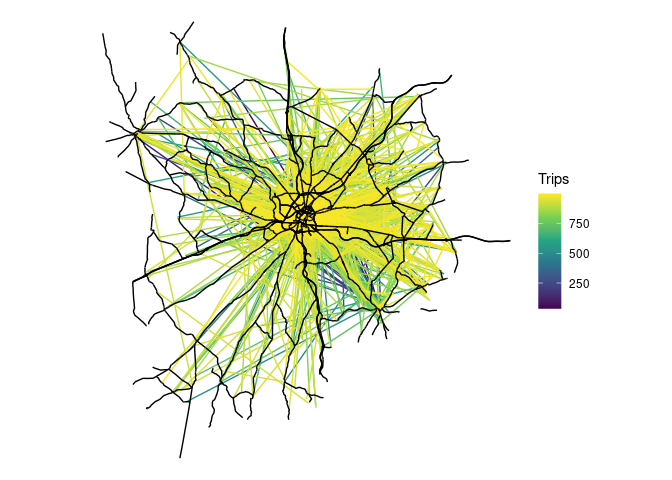
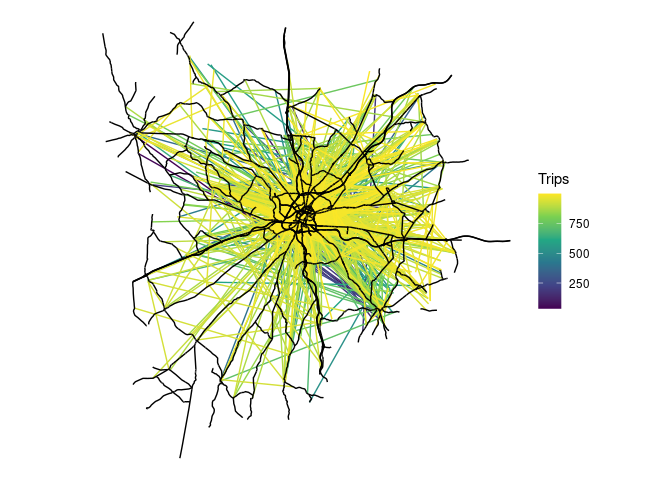
Re-render readme

Changed region(s): [[0.1875, 0.0938, 0.6875, 0.8438], [0.625, 0.1562, 0.6562, 0.1875]]

diff --git a/README.md b/README.md
@@ -1,0 +1,383 @@
+
+
+<!-- badges: start -->
+
+[![R-CMD-check](https://github.com/Robinlovelace/spanish_od_data/actions/workflows/R-CMD-check.yaml/badge.svg)](https://github.com/Robinlovelace/spanish_od_data/actions/workflows/R-CMD-check.yaml)
+<!-- badges: end -->
+
+This repo demonstrates how to download and use OD data from Spain,
+published by
+[transportes.gob.es](https://www.transportes.gob.es/ministerio/proyectos-singulares/estudios-de-movilidad-con-big-data/opendata-movilidad)
+
+The data is provided as follows:
+
+- Estudios basicos
+  - Por disitritos
+    - Personas (population)
+    - Pernoctaciones (overnight stays)
+    - Viajes
+      - ficheros-diarios
+      - meses-completos
+
+The package is designed to save people time by providing the data in
+analyis-ready formats. Automating the process of downloading, cleaning
+and importing the data can also reduce the risk of errors in the
+laborious process of data preparation.
+
+The datasets are large, so the package aims to reduce computational
+resources, by using computationally efficient packages behind the
+scenes. If you want to use many of the data files, it’s recommended you
+set a data directory where the package will look for the data, only
+downloading the files that are not already present.
+
+# Installation
+
+Install the package as follows:
+
+``` r
+if (!require("remotes")) install.packages("remotes")
+remotes::install_github("Robinlovelace/spanishoddata")
+```
+
+Load it as follows:
+
+``` r
+library(spanishoddata)
+```
+
+# Setting the data directory
+
+You can specify the data directory globally by setting the
+`SPANISH_OD_DATA_DIR` environment variable, e.g. with the following
+command:
+
+``` r
+usethis::edit_r_environ()
+# Then set the data directory globally, by typing this line in the file:
+```
+
+    SPANISH_OD_DATA_DIR = "/path/to/data"
+
+You can also set the data directory in the local folder by editing a
+local `.Renviron` file in the root of the project:
+
+``` r
+file.edit(".Renviron")
+```
+
+Finally, you can set the data directory in the current R session as
+follows:
+
+``` r
+Sys.setenv(SPANISH_OD_DATA_DIR = "/path/to/data")
+```
+
+# Using the package
+
+To run the code in this README we will use the following setup:
+
+``` r
+library(duckdb)
+library(tidyverse)
+theme_set(theme_minimal())
+sf::sf_use_s2(FALSE)
+```
+
+Get metadata for the datasets as follows:
+
+``` r
+metadata = get_metadata()
+metadata
+```
+
+    # A tibble: 9,442 × 6
+       target_url           pub_ts              file_extension data_ym data_ymd  
+       <chr>                <dttm>              <chr>          <date>  <date>    
+     1 https://movilidad-o… 2024-07-16 11:22:03 gz             NA      2022-10-23
+     2 https://movilidad-o… 2024-07-16 11:18:41 gz             NA      2022-10-22
+     3 https://movilidad-o… 2024-07-16 11:15:06 gz             NA      2022-10-20
+     4 https://movilidad-o… 2024-07-16 11:11:35 gz             NA      2022-10-18
+     5 https://movilidad-o… 2024-07-16 11:07:58 gz             NA      2022-10-17
+     6 https://movilidad-o… 2024-07-16 11:04:18 gz             NA      2022-10-12
+     7 https://movilidad-o… 2024-07-16 11:00:20 gz             NA      2022-10-07
+     8 https://movilidad-o… 2024-07-16 10:56:03 gz             NA      2022-08-07
+     9 https://movilidad-o… 2024-07-16 10:51:05 gz             NA      2022-08-06
+    10 https://movilidad-o… 2024-07-16 10:46:24 gz             NA      2022-08-05
+    # ℹ 9,432 more rows
+    # ℹ 1 more variable: local_path <chr>
+
+## Zones
+
+Zones can be downloaded as follows:
+
+``` r
+distritos = get_zones(type = "distritos")
+distritos_wgs84 = sf::st_transform(distritos, 4326)
+plot(distritos_wgs84)
+```
+
+![](man/figures/README-distritos-1.png)
+
+## Estudios basicos
+
+Each day in the `ficheros-diarios` folder contains a file with the
+following columns:
+
+``` r
+# set timeout for downloads
+options(timeout = 600) # 10 minutes
+u1 = "https://movilidad-opendata.mitma.es/estudios_basicos/por-distritos/viajes/ficheros-diarios/2024-03/20240301_Viajes_distritos.csv.gz"
+f1 = basename(u1)
+if (!file.exists(f1)) {
+  download.file(u1, f1)
+}
+drv = duckdb::duckdb("daily.duckdb")
+con = DBI::dbConnect(drv)
+od1 = duckdb::tbl_file(con, f1)
+# colnames(od1)
+#  [1] "fecha"                   "periodo"                
+#  [3] "origen"                  "destino"                
+#  [5] "distancia"               "actividad_origen"       
+#  [7] "actividad_destino"       "estudio_origen_posible" 
+#  [9] "estudio_destino_posible" "residencia"             
+# [11] "renta"                   "edad"                   
+# [13] "sexo"                    "viajes"                 
+# [15] "viajes_km"
+od1_head = od1 |>
+  head() |>
+  collect()
+od1_head |>
+  knitr::kable()
+```
+
+| fecha | periodo | origen | destino | distancia | actividad_origen | actividad_destino | estudio_origen_posible | estudio_destino_posible | residencia | renta | edad | sexo | viajes | viajes_km |
+|---:|:---|:---|:---|:---|:---|:---|:---|:---|:---|:---|:---|:---|---:|---:|
+| 20240301 | 19 | 01009_AM | 01001 | 0.5-2 | frecuente | casa | no | no | 01 | 10-15 | NA | NA | 5.124 | 6.120 |
+| 20240301 | 15 | 01002 | 01001 | 10-50 | frecuente | casa | no | no | 01 | 10-15 | NA | NA | 2.360 | 100.036 |
+| 20240301 | 00 | 01009_AM | 01001 | 10-50 | frecuente | casa | no | no | 01 | 10-15 | NA | NA | 1.743 | 22.293 |
+| 20240301 | 05 | 01009_AM | 01001 | 10-50 | frecuente | casa | no | no | 01 | 10-15 | NA | NA | 2.404 | 24.659 |
+| 20240301 | 06 | 01009_AM | 01001 | 10-50 | frecuente | casa | no | no | 01 | 10-15 | NA | NA | 5.124 | 80.118 |
+| 20240301 | 09 | 01009_AM | 01001 | 10-50 | frecuente | casa | no | no | 01 | 10-15 | NA | NA | 7.019 | 93.938 |
+
+``` r
+DBI::dbDisconnect(con)
+```
+
+You can get the same result, but for multiple files, as follows:
+
+``` r
+od_multi_list = get_od(
+  subdir = "estudios_basicos/por-distritos/viajes/ficheros-diarios",
+  date_regex = "2024030[1-7]"
+)
+od_multi_list[[1]]
+```
+
+    # Source:   SQL [?? x 15]
+    # Database: DuckDB v0.10.2 [robin@Linux 6.5.0-45-generic:R 4.4.1/:memory:]
+          fecha periodo origen  destino distancia actividad_origen actividad_destino
+          <dbl> <chr>   <chr>   <chr>   <chr>     <chr>            <chr>            
+     1 20240307 00      01009_… 01001   0.5-2     frecuente        casa             
+     2 20240307 09      01009_… 01001   0.5-2     frecuente        casa             
+     3 20240307 18      01009_… 01001   0.5-2     frecuente        casa             
+     4 20240307 19      01009_… 01001   0.5-2     frecuente        casa             
+     5 20240307 20      01009_… 01001   0.5-2     frecuente        casa             
+     6 20240307 14      01002   01001   10-50     frecuente        casa             
+     7 20240307 22      01002   01001   10-50     frecuente        casa             
+     8 20240307 06      01009_… 01001   10-50     frecuente        casa             
+     9 20240307 09      01009_… 01001   10-50     frecuente        casa             
+    10 20240307 11      01009_… 01001   10-50     frecuente        casa             
+    # ℹ more rows
+    # ℹ 8 more variables: estudio_origen_posible <chr>,
+    #   estudio_destino_posible <chr>, residencia <chr>, renta <chr>, edad <chr>,
+    #   sexo <chr>, viajes <dbl>, viajes_km <dbl>
+
+``` r
+class(od_multi_list[[1]])
+```
+
+    [1] "tbl_duckdb_connection" "tbl_dbi"               "tbl_sql"              
+    [4] "tbl_lazy"              "tbl"                  
+
+The result is a list of duckdb tables which load almost instantly, and
+can be used with dplyr functions. Let’s do an aggregation to find the
+total number trips per hour over the 7 days:
+
+``` r
+n_per_hour = od_multi_list |>
+  map(~ .x |>
+        group_by(periodo, fecha) |>
+        summarise(n = n(), Trips = sum(viajes)) |>
+        collect()
+  ) |>
+  list_rbind() |>
+  mutate(Time = lubridate::ymd_h(paste0(fecha, periodo))) |>
+  mutate(Day = lubridate::wday(Time, label = TRUE)) 
+n_per_hour |>
+  ggplot(aes(x = Time, y = Trips)) +
+  geom_line(aes(colour = Day)) +
+  labs(title = "Number of trips per hour over 7 days")
+```
+
+![](man/figures/README-trips-per-hour-1.png)
+
+The figure above summarises 925,874,012 trips over the 7 days associated
+with 135,866,524 records.
+
+# Desire lines
+
+We’ll use the same input data to pick-out the most important flows in
+Spain, with a focus on longer trips for visualisation:
+
+``` r
+od_large = od_multi_list |>
+  map(~ .x |>
+        group_by(origen, destino) |>
+        summarise(Trips = sum(viajes), .groups = "drop") |>
+        filter(Trips > 500) |>
+        collect()
+  ) |>
+  list_rbind() |>
+  group_by(origen, destino) |>
+  summarise(Trips = sum(Trips)) |>
+  arrange(desc(Trips))
+od_large
+```
+
+    # A tibble: 37,023 × 3
+    # Groups:   origen [3,723]
+       origen  destino    Trips
+       <chr>   <chr>      <dbl>
+     1 2807908 2807908 2441404.
+     2 0801910 0801910 2112188.
+     3 0801902 0801902 2013618.
+     4 2807916 2807916 1821504.
+     5 2807911 2807911 1785981.
+     6 04902   04902   1690606.
+     7 2807913 2807913 1504484.
+     8 2807910 2807910 1299586.
+     9 0704004 0704004 1287122.
+    10 28106   28106   1286058.
+    # ℹ 37,013 more rows
+
+The results show that the largest flows are intra-zonal. Let’s keep only
+the inter-zonal flows:
+
+``` r
+od_large_interzonal = od_large |>
+  filter(origen != destino)
+```
+
+We can convert these to geographic data with the {od} package:
+
+``` r
+od_large_interzonal_sf = od::od_to_sf(
+  od_large_interzonal,
+  z = distritos_wgs84
+)
+od_large_interzonal_sf |>
+  ggplot() +
+  geom_sf(aes(size = Trips), colour = "red") +
+  theme_void()
+```
+
+![](man/figures/README-desire-lines-1.png)
+
+Let’s focus on trips in and around a particular area (Salamanca):
+
+``` r
+salamanca_zones = zonebuilder::zb_zone("Salamanca")
+distritos_salamanca = distritos_wgs84[salamanca_zones, ]
+plot(distritos_salamanca)
+```
+
+![](man/figures/README-salamanca-zones-1.png)
+
+We will use this information to subset the rows, to capture all movement
+within the study area:
+
+``` r
+ids_salamanca = distritos_salamanca$ID
+od_salamanca = od_multi_list |>
+  map(~ .x |>
+        filter(origen %in% ids_salamanca) |>
+        filter(destino %in% ids_salamanca) |>
+        collect()
+  ) |>
+  list_rbind() |>
+  group_by(origen, destino) |>
+  summarise(Trips = sum(viajes)) |>
+  arrange(Trips)
+```
+
+Let’s plot the results:
+
+``` r
+od_salamanca_sf = od::od_to_sf(
+  od_salamanca,
+  z = distritos_salamanca
+)
+od_salamanca_sf |>
+  filter(origen != destino) |>
+  ggplot() +
+  geom_sf(aes(colour = Trips), size = 1) +
+  scale_colour_viridis_c() +
+  theme_void()
+```
+
+![](man/figures/README-salamanca-plot-1.png)
+
+# Disaggregating desire lines
+
+For this you’ll need some additional dependencies:
+
+``` r
+library(sf)
+library(tmap)
+```
+
+We’ll get the road network from OSM:
+
+``` r
+salamanca_boundary = sf::st_union(distritos_salamanca)
+osm_full = osmactive::get_travel_network(salamanca_boundary)
+```
+
+``` r
+osm = osm_full[salamanca_boundary, ]
+drive_net = osmactive::get_driving_network(osm)
+drive_net_major = osmactive::get_driving_network_major(osm)
+cycle_net = osmactive::get_cycling_network(osm)
+cycle_net = osmactive::distance_to_road(cycle_net, drive_net_major)
+cycle_net = osmactive::classify_cycle_infrastructure(cycle_net)
+map_net = osmactive::plot_osm_tmap(cycle_net)
+map_net
+```
+
+![](man/figures/README-osm-1.png)
+
+We can use the road network to disaggregate the desire lines:
+
+``` r
+od_jittered = odjitter::jitter(
+  od_salamanca_sf,
+  zones = distritos_salamanca,
+  subpoints = drive_net,
+  disaggregation_threshold = 1000,
+  disaggregation_key = "Trips"
+)
+```
+
+Let’s plot the disaggregated desire lines:
+
+``` r
+od_jittered |>
+  arrange(Trips) |>
+  ggplot() +
+  geom_sf(aes(colour = Trips), size = 1) +
+  scale_colour_viridis_c() +
+  geom_sf(data = drive_net_major, colour = "black") +
+  theme_void()
+```
+
+![](man/figures/README-disaggregated-1.png)
